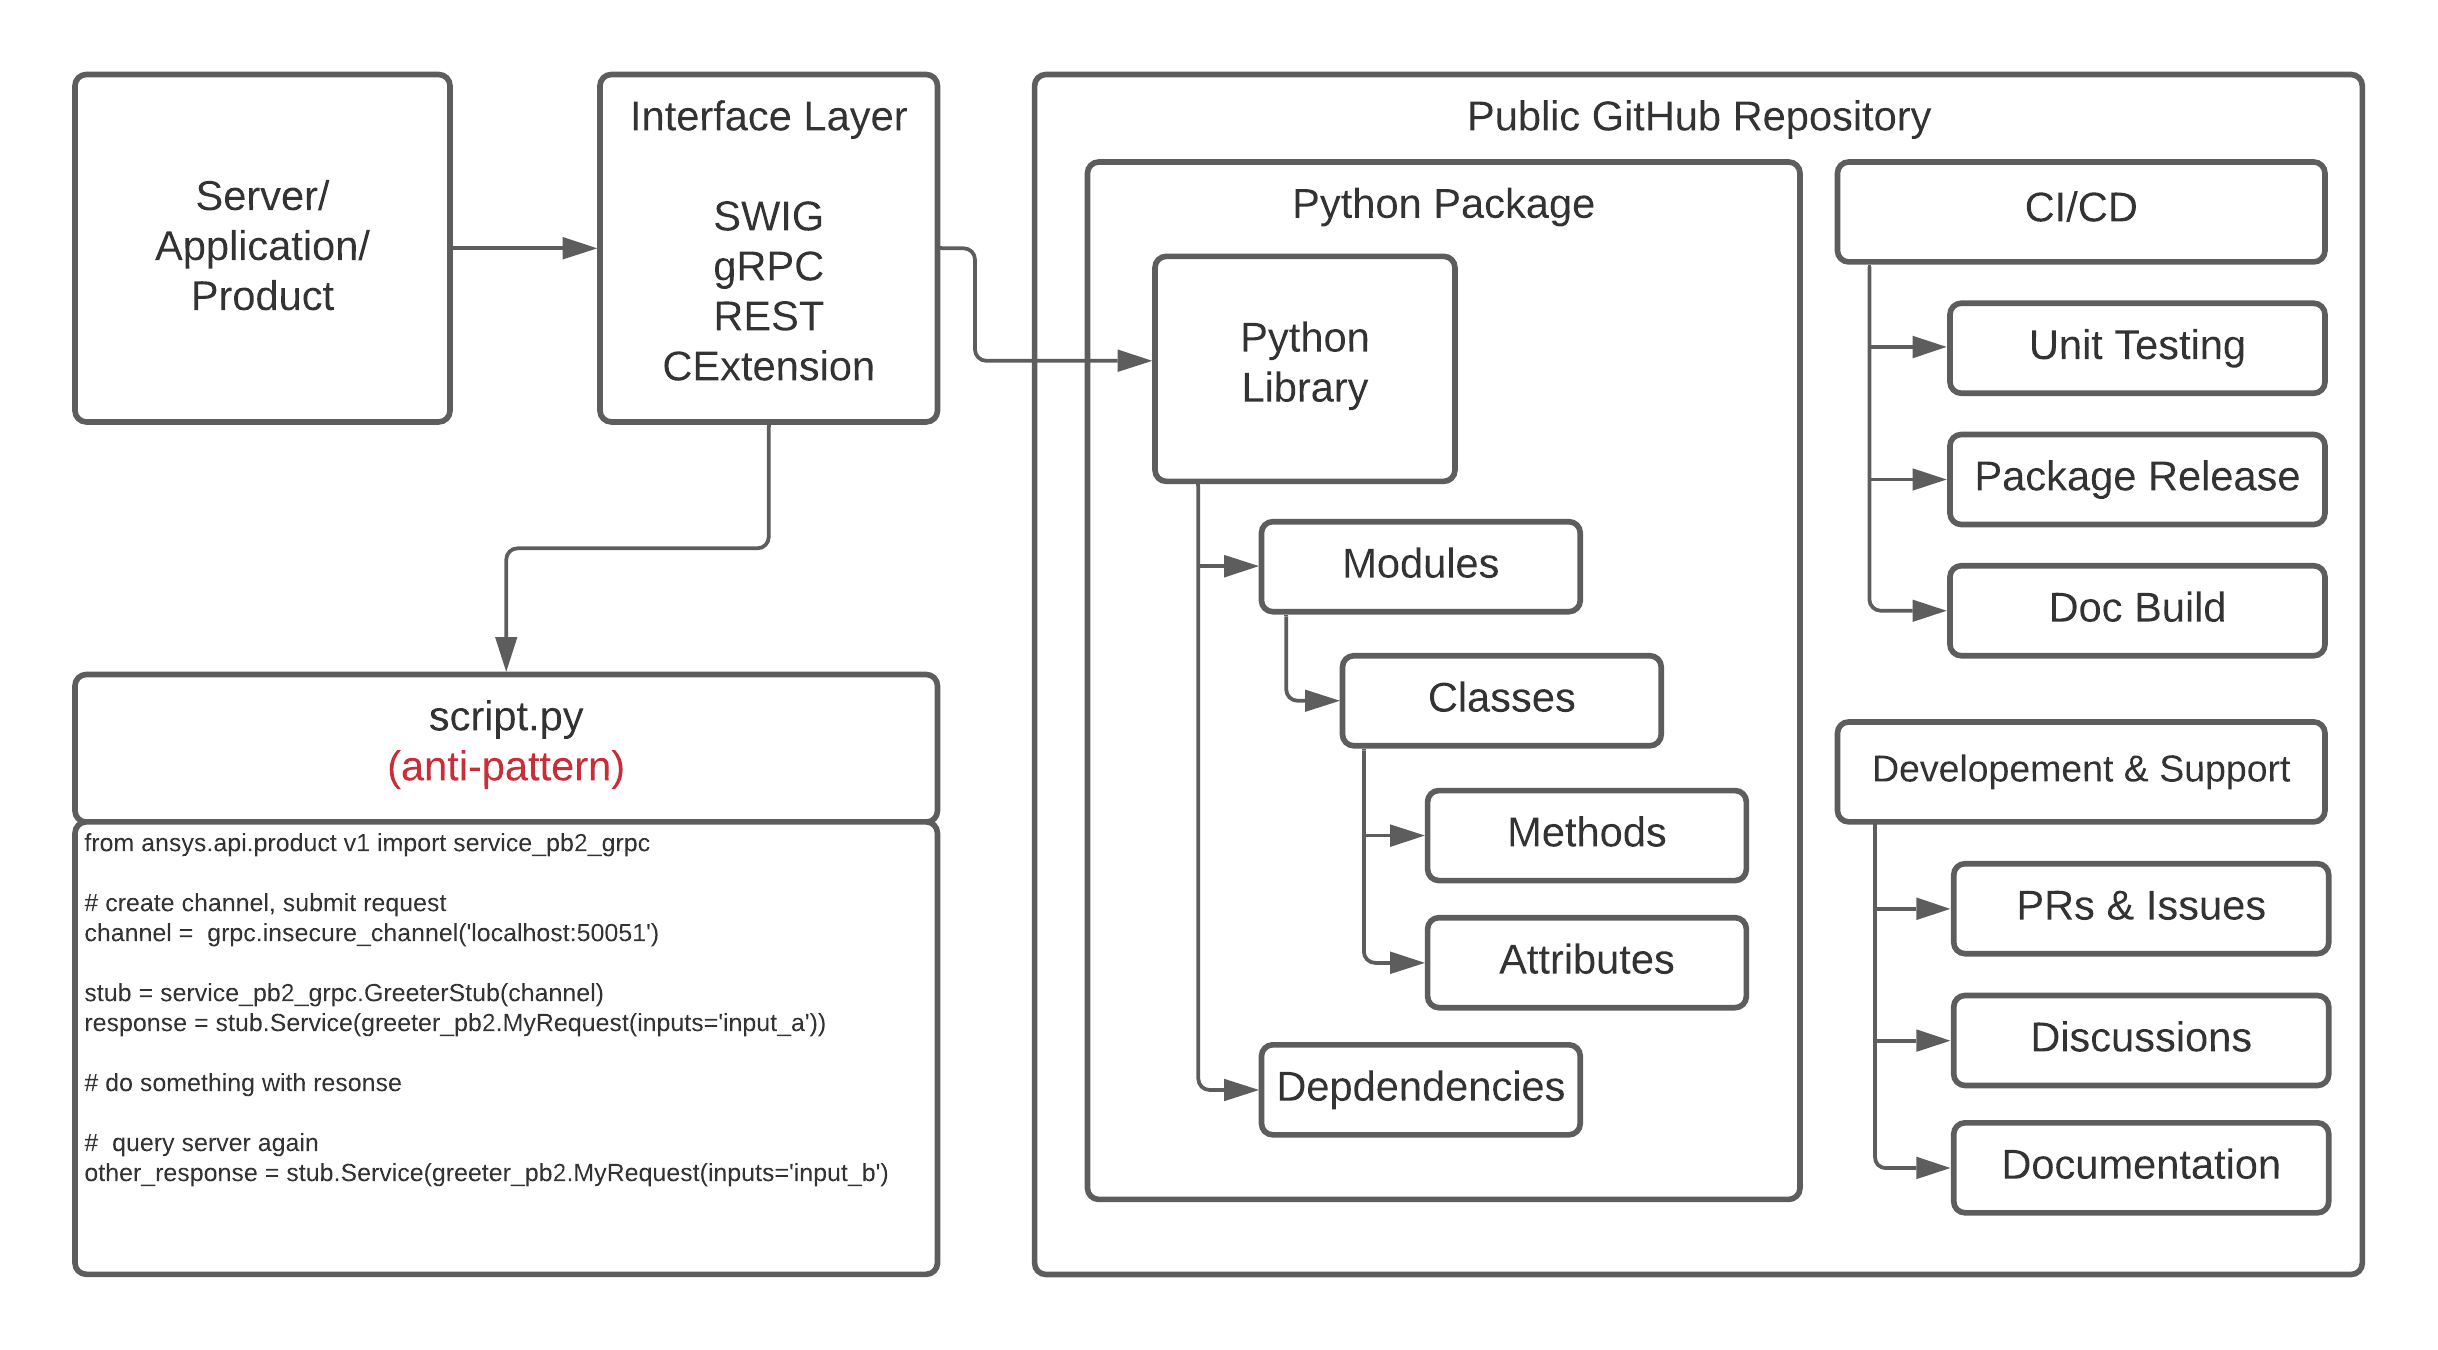
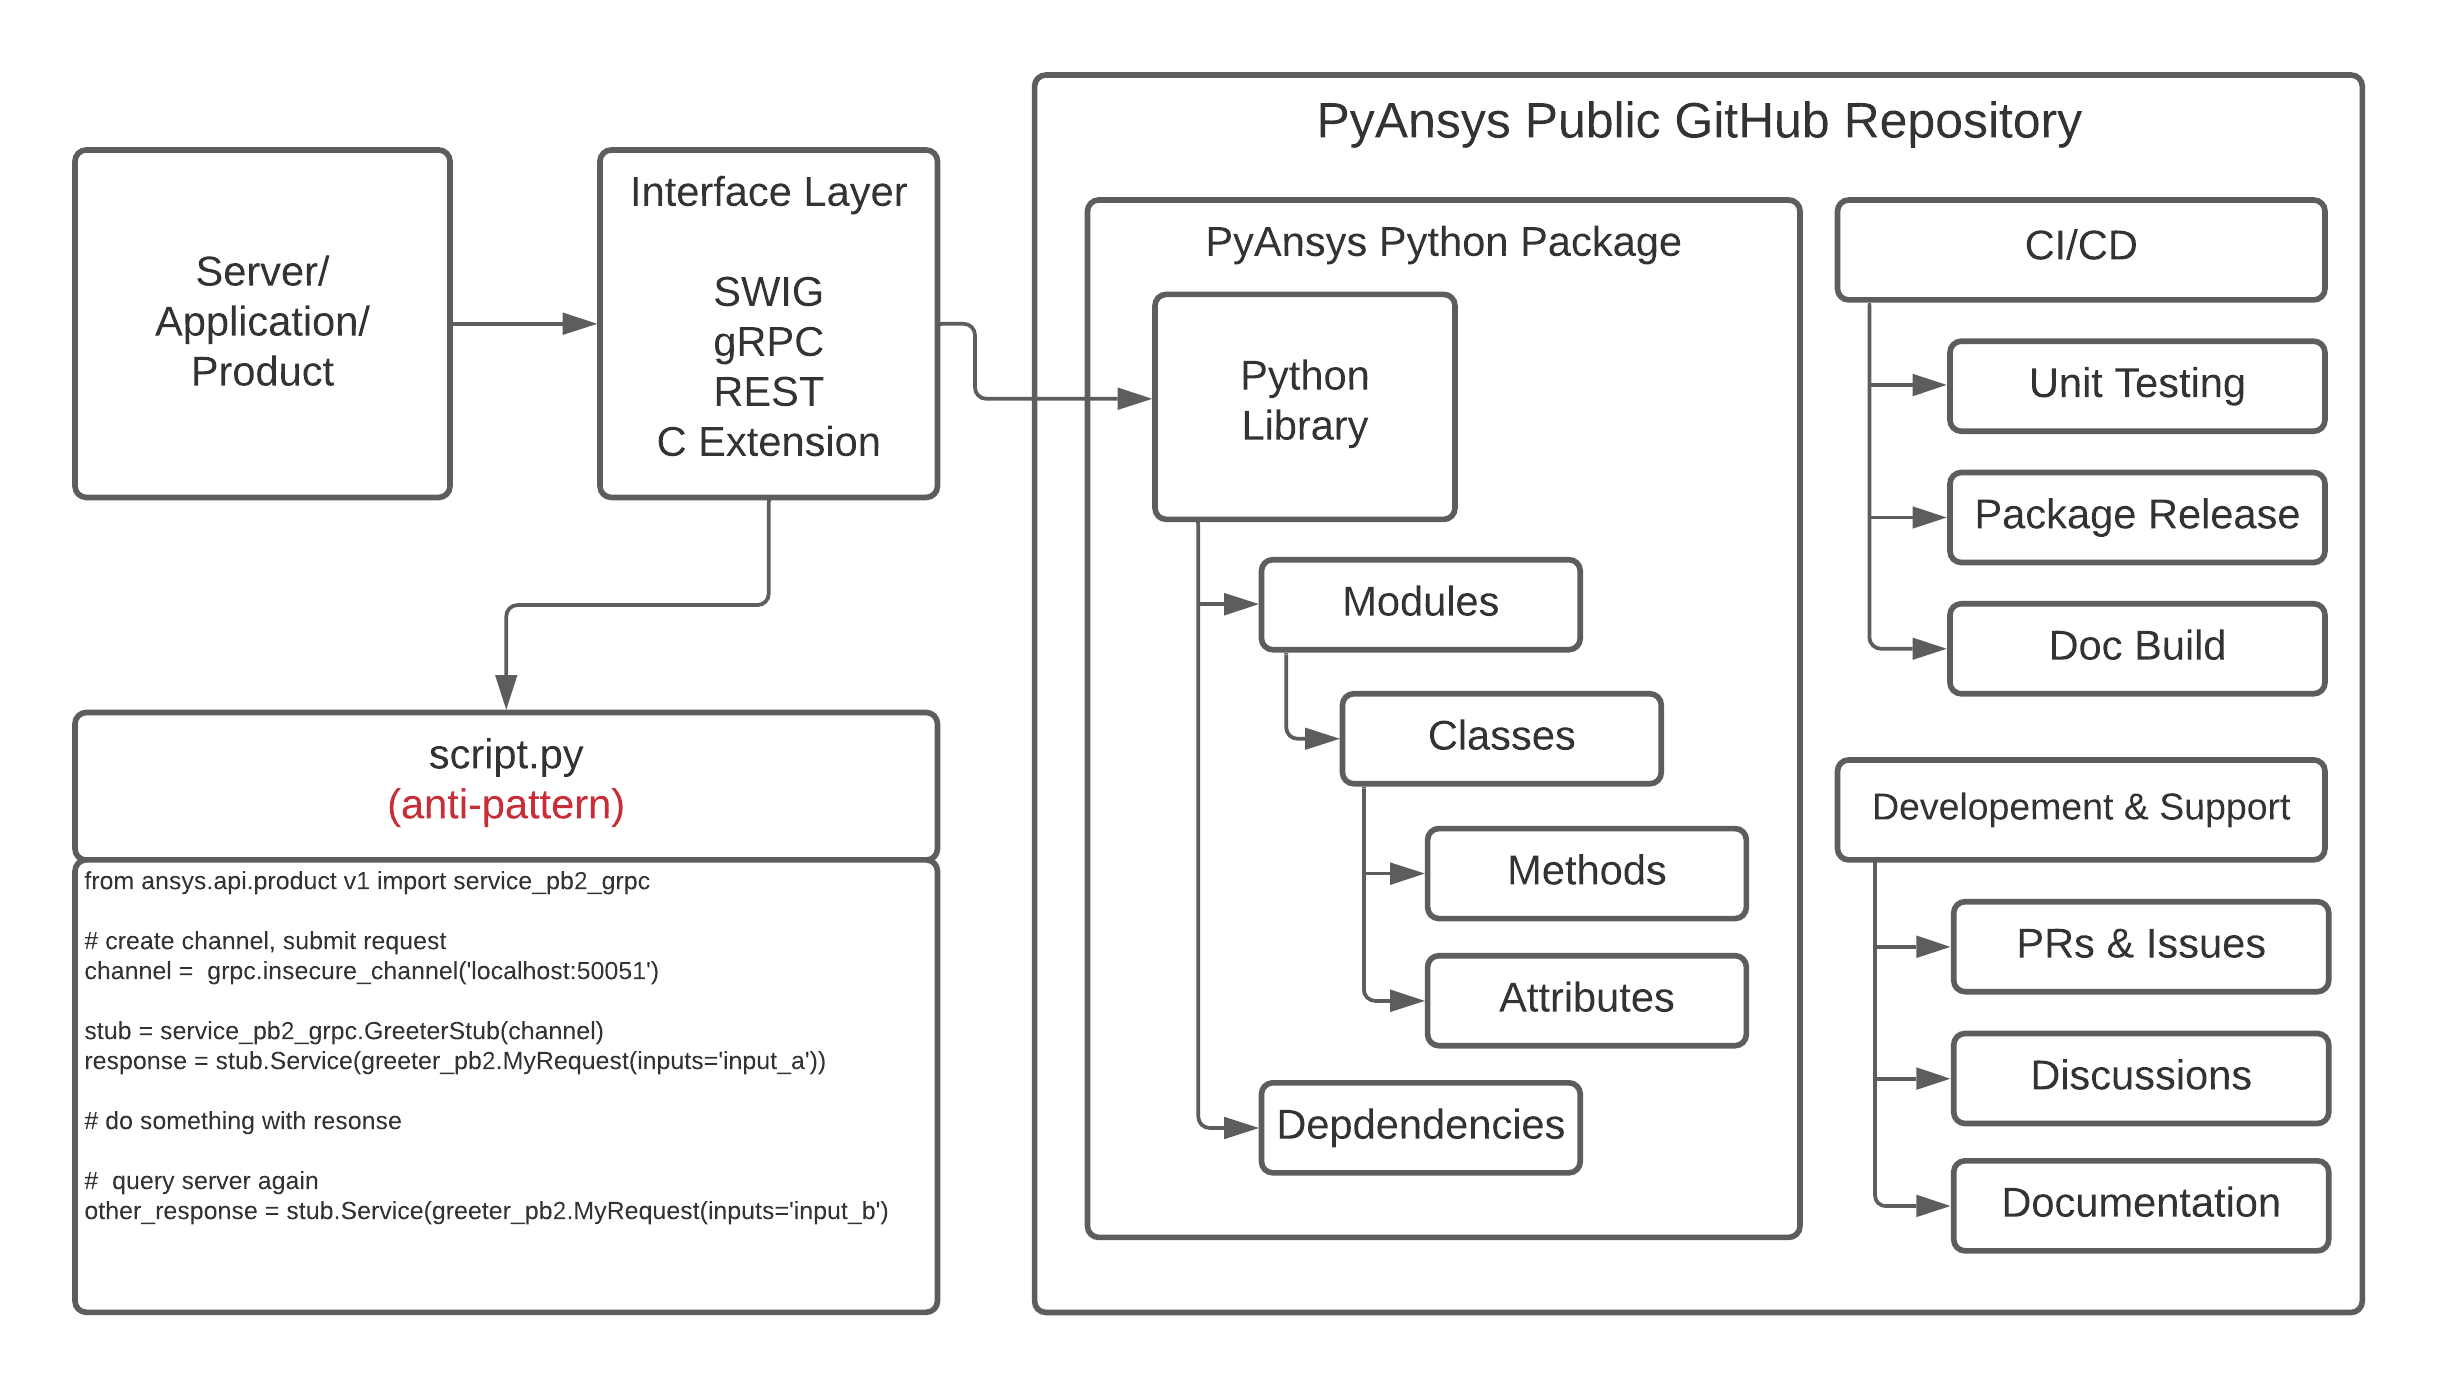
add example code

diff --git a/README.rst b/README.rst
@@ -26,8 +26,7 @@ PyAnsys libraries are intended to extend and interface with existing
 products of Ansys services **outside** of the application itself, and
 in some cases permitting remote execution.  As such, this requires
 that you have a working installation of Python, and ideally a Python
-distribution like the `Anaconda Distribution
-<https://www.anaconda.com/products/individual>`_.  For existing users
+distribution like the `Anaconda Distribution`_.  For existing users
 of Ansys who are not used to working with Python outside of the
 product, this may seem to be an unnecessary step, but what this
 approach provides is:
@@ -51,9 +50,9 @@ approach provides is:
 
 * Customization of your entire Python environment on the OS of your
   choosing.  For the applications that support it, you can even
-  remotely connect with and manage the application via `gRPC
-  <https://grpc.io/>`_.  For those that don't, you can still customize
-  the version of Python and its packages.
+  remotely connect with and manage the application via `gRPC`_.  For
+  those that don't, you can still customize the version of Python and
+  its packages.
 
 * Create applications or pipelines that utilize Ansys products and
   expose features as a web-page, standalone application, or script to
@@ -64,7 +63,7 @@ approach provides is:
 PyAnsys Project Structure
 =========================
 The PyAnsys project hosted on GitHub at `PyAnsys
-<https://github.com/pyansys>`_ contains several repositories that provide:
+<https://github.com/pyansys>`_ contains repositories that provide:
 
 * Interfaces to Ansys products or services:
 
@@ -76,7 +75,7 @@ The PyAnsys project hosted on GitHub at `PyAnsys
 
 * Documentation and Examples
 
-  * `about <https://github.com/pyansys/about>`_
+  * `Project Overview <https://github.com/pyansys/about>`_
   * `pyansys-sphinx-theme <https://github.com/pyansys/pyansys-sphinx-theme>`_
   * `pyansys_landing <https://github.com/pyansys/pyansys_landing>`_
   * `pyansys-helloworld <https://github.com/pyansys/pyansys-helloworld>`_
@@ -87,6 +86,9 @@ The PyAnsys project hosted on GitHub at `PyAnsys
   * `pyansys-protos-generator <https://github.com/pyansys/pyansys-protos-generator>`_
   * `example-coverage <https://github.com/pyansys/example-coverage>`_
   * `system-reporting-tool <https://github.com/pyansys/system-reporting-tool>`_
+
+For details regarding each project, visit the repository and either
+view the README or visit the documentation linked to the repository.
 
 
 PyAnsys Library Overview
@@ -115,9 +117,48 @@ general pattern in the following figure:
   :width: 400
   :alt: Overview Diagram
 
+In this overview, the product or service exposes an interface that is
+either locally acessible (in the case of .NET using `pythoncom`_,
+`SWIG`_, or `C extensions`_) or a service that is locally and
+remotably acessible (`REST`_ or `gRPC`_).  This will be reffered to as
+the program API.  While this API can be directly accessed 
+
+
++-----------------------------------------------------------------------------------------------------+-----------------------------------------+
+| Using gRPC Autogenerated Interface                                                                  | Using PyMapdl Library                   |
++-----------------------------------------------------------------------------------------------------+-----------------------------------------+
+| import grpc                                                                                         | from ansys.mapdl import core as pymapdl |
+|                                                                                                     |                                         |
+| from ansys.api.mapdl.v0 import mapdl_pb2 as pb_types                                                | # start mapdl                           |
+| from ansys.api.mapdl.v0 import mapdl_pb2_grpc as mapdl_grpc                                         | mapdl = pymapdl.launch_mapdl()          |
+| from ansys.api.mapdl.v0 import kernel_pb2 as anskernel                                              | output = mapdl.input('ds.dat')          |
+| from grpc_interceptor_headers.header_manipulator_client_interceptor import header_adder_interceptor |                                         |
+| from ansys.client.servicemanager.client import ServiceManagerClient as service_manager              |                                         |
+| sm = service_manager()                                                                              |                                         |
+|                                                                                                     |                                         |
+| # start MAPDL                                                                                       |                                         |
+| job = sm.create_job_by_name("mapdl-212")                                                            |                                         |
+| service_name = f"grpc-{job.name}"                                                                   |                                         |
+| mapdl_service = sm.get_service(name=service_name)                                                   |                                         |
+|                                                                                                     |                                         |
+| # create a gRPC channel                                                                             |                                         |
+| channel_str = '%s:%d' % (mapdl_service.host, mapdl_service.port)                                    |                                         |
+| channel = grpc.insecure_channel(channel_str)                                                        |                                         |
+| header_adder =  header_adder_interceptor('service-name', service_name)                              |                                         |
+| stub = mapdl_grpc.MapdlServiceStub(channel)                                                         |                                         |
+|                                                                                                     |                                         |
+| # send the input file                                                                               |                                         |
+| request = pb_types.InputFileRequest(filename='ds.dat'))                                             |                                         |
+| metadata = (('time-step-stream', '200'), ('chunk-size', '512'),)                                    |                                         |
+| response = stub.InputFileS(request, metadata=metadata)                                              |                                         |
+| # need additional code to parse file...                                                             |                                         |
++-----------------------------------------------------------------------------------------------------+-----------------------------------------+
+
+
+
 
 PyAnsys Package Basic Structure
--------------------------------
+===============================
 
 ansys/<product>/<service>/my_module.py
 ansys/<product>/<service>/my_other_module.py
@@ -158,3 +199,11 @@ Python Modules
 
 Documentation Directory `doc`
  - Use `pyansys-sphinx-theme <https://sphinxdocs.pyansys.com/>`_
+
+
+.. _gRPC: https://grpc.io/
+.. _pythoncom: http://timgolden.me.uk/pywin32-docs/pythoncom.html
+.. _SWIG: http://www.swig.org/
+.. _C extensions: https://docs.python.org/3/extending/extending.html
+.. _Anaconda Distribution: https://www.anaconda.com/products/individual
+.. _REST: https://en.wikipedia.org/wiki/Representational_state_transfer
